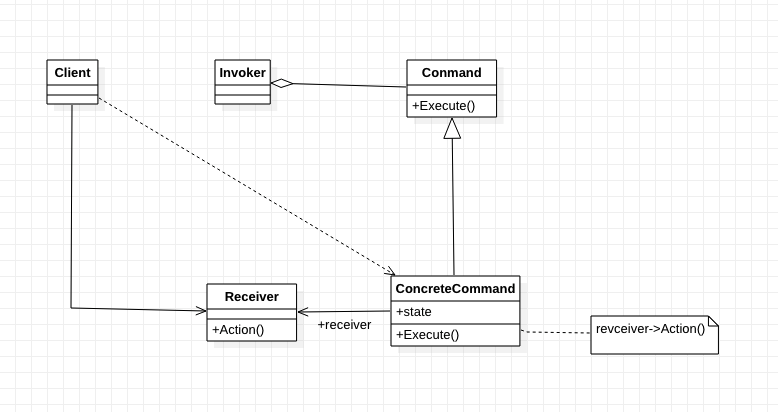
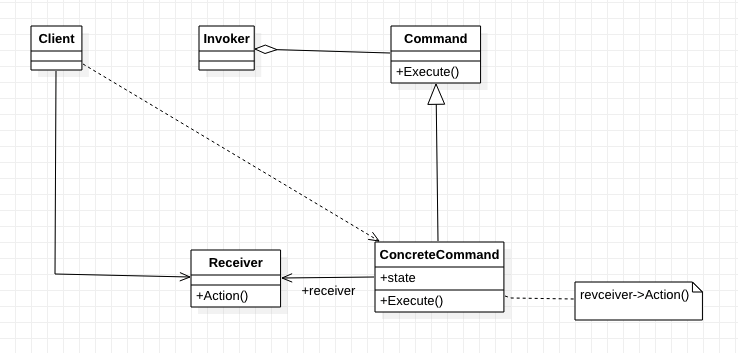
20190128: 添加命令模式CPP及Java代码示例

diff --git a/F-设计模式/7.命令模式/Java/Test.java b/F-设计模式/7.命令模式/Java/Test.java
@@ -1,0 +1,12 @@
+package Java;
+
+public class Test {
+    public static void main(String[] args) {
+        SimpleRemoteControl remote = new SimpleRemoteControl();
+        Light light = new Light();
+        LightOnCommand lightOn = new LightOnCommand(light);
+
+        remote.setCommand(lightOn);
+        remote.buttonWasPressed();
+    }
+}

diff --git a/F-设计模式/7.命令模式/CPP/main.cpp b/F-设计模式/7.命令模式/CPP/main.cpp
@@ -1,0 +1,17 @@
+#include <iostream>
+#include "ConcreteCommand.h"
+#include "Invoker.h"
+#include "Receiver.h"
+
+
+int main()
+{
+    Invoker *invoker = new Invoker();
+    Receiver *receiver = new Receiver();
+    ConcreteCommand *cc = new ConcreteCommand();
+
+    invoker->setCommand(cc);
+    invoker->executeAll();
+
+    return 0;
+}

diff --git a/F-设计模式/7.命令模式/Java/SimpleRemoteControl.java b/F-设计模式/7.命令模式/Java/SimpleRemoteControl.java
@@ -1,0 +1,15 @@
+package Java;
+
+public class SimpleRemoteControl {
+    Command slot;
+
+    public SimpleRemoteControl() {}
+
+    public void setCommand(Command command) {
+        slot = command;
+    }
+
+    public void buttonWasPressed() {
+        slot.execute();
+    }
+}

diff --git a/F-设计模式/7.命令模式/Java/LightOnCommand.java b/F-设计模式/7.命令模式/Java/LightOnCommand.java
@@ -1,0 +1,13 @@
+package Java;
+
+public class LightOnCommand implements Command {
+    Light light;
+
+    public LightOnCommand(Light light) {
+        this.light = light;
+    }
+
+    public void execute() {
+        light.on();
+    }
+}

diff --git a/F-设计模式/7.命令模式/CPP/ConcreteCommand.h b/F-设计模式/7.命令模式/CPP/ConcreteCommand.h
@@ -1,0 +1,11 @@
+
+#include "Command.h"
+#include "Receiver.h"
+
+class ConcreteCommand : public Command {
+public:
+    void execute();
+
+private:
+    Receiver *_receiver;
+};

diff --git a/F-设计模式/7.命令模式/CPP/Invoker.h b/F-设计模式/7.命令模式/CPP/Invoker.h
@@ -1,0 +1,11 @@
+
+#include "Command.h"
+
+class Invoker {
+public:
+    void executeAll();
+    void setCommand(Command *com);
+
+private:
+    Command *_command;
+};

diff --git a/F-设计模式/7.命令模式/CPP/Invoker.cpp b/F-设计模式/7.命令模式/CPP/Invoker.cpp
@@ -1,0 +1,9 @@
+#include "Invoker.h"
+
+void Invoker::executeAll() {
+    _command->execute();
+}
+
+void Invoker::setCommand(Command *com) {
+    _command = com;
+}

diff --git a/F-设计模式/7.命令模式/Java/Light.java b/F-设计模式/7.命令模式/Java/Light.java
@@ -1,0 +1,9 @@
+package Java;
+
+public class Light {
+    public Light() {}
+
+    public void on() {
+        System.out.println("Light on...");
+    }
+}

diff --git a/F-设计模式/7.命令模式/CPP/Receiver.cpp b/F-设计模式/7.命令模式/CPP/Receiver.cpp
@@ -1,0 +1,7 @@
+
+#include "Receiver.h"
+#include <iostream>
+
+void Receiver::Action() {
+    std::cout << "Receiver::Action()..." << std::endl;
+}

diff --git a/F-设计模式/7.命令模式/CPP/Command.h b/F-设计模式/7.命令模式/CPP/Command.h
@@ -1,0 +1,9 @@
+#ifndef _COMMAND_H_
+#define _COMMAND_H_
+
+class Command {
+public:
+    virtual void execute() = 0;
+};
+
+#endif

diff --git a/F-设计模式/7.命令模式/CPP/Receiver.h b/F-设计模式/7.命令模式/CPP/Receiver.h
@@ -1,0 +1,9 @@
+#ifndef _RECEIVER_H_
+#define _RECEIVER_H_
+
+class Receiver {
+public:
+    void Action();
+};
+
+#endif

diff --git a/F-设计模式/7.命令模式/CPP/ConcreteCommand.cpp b/F-设计模式/7.命令模式/CPP/ConcreteCommand.cpp
@@ -1,0 +1,6 @@
+
+#include "ConcreteCommand.h"
+
+void ConcreteCommand::execute() {
+    _receiver->Action();
+}
